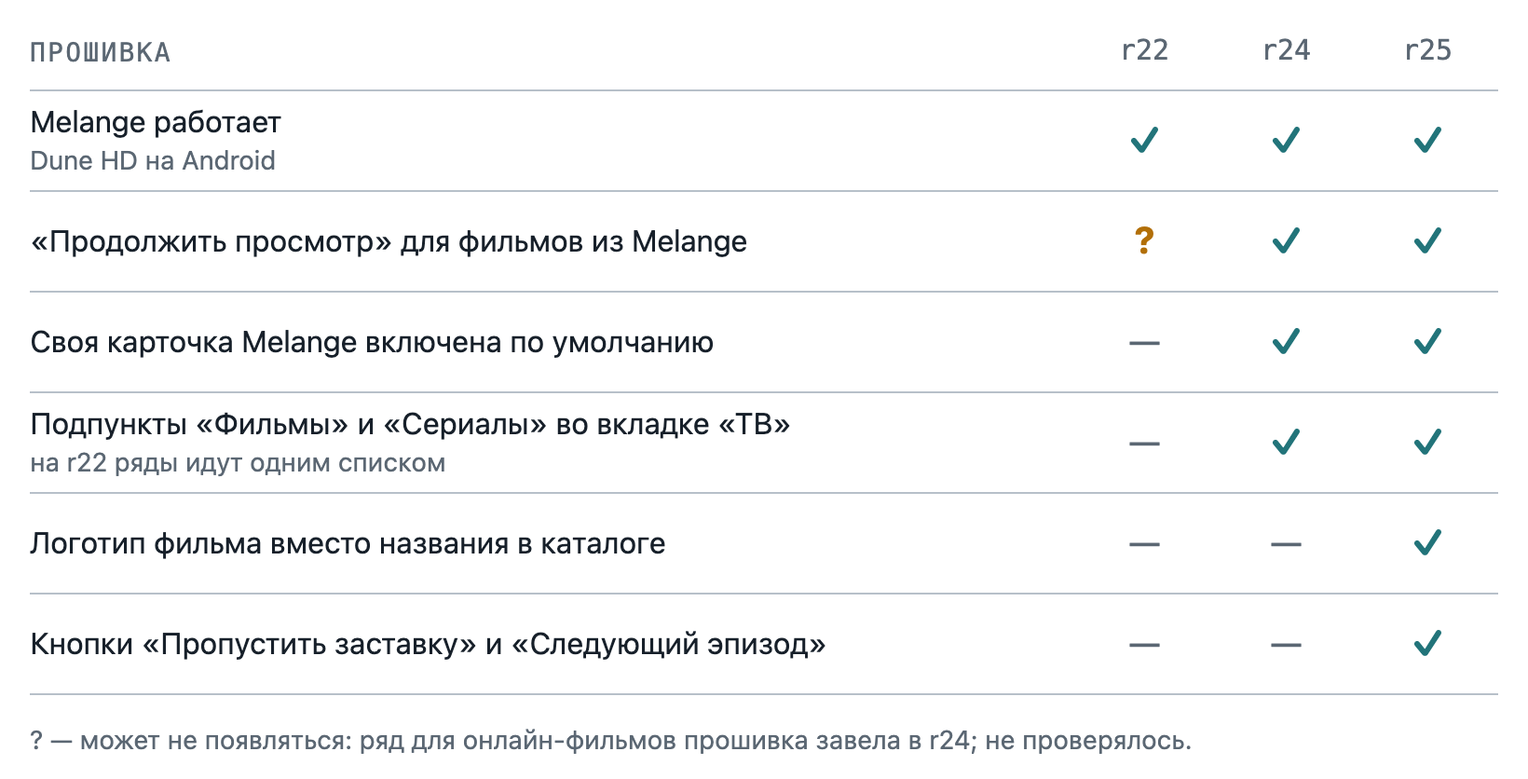
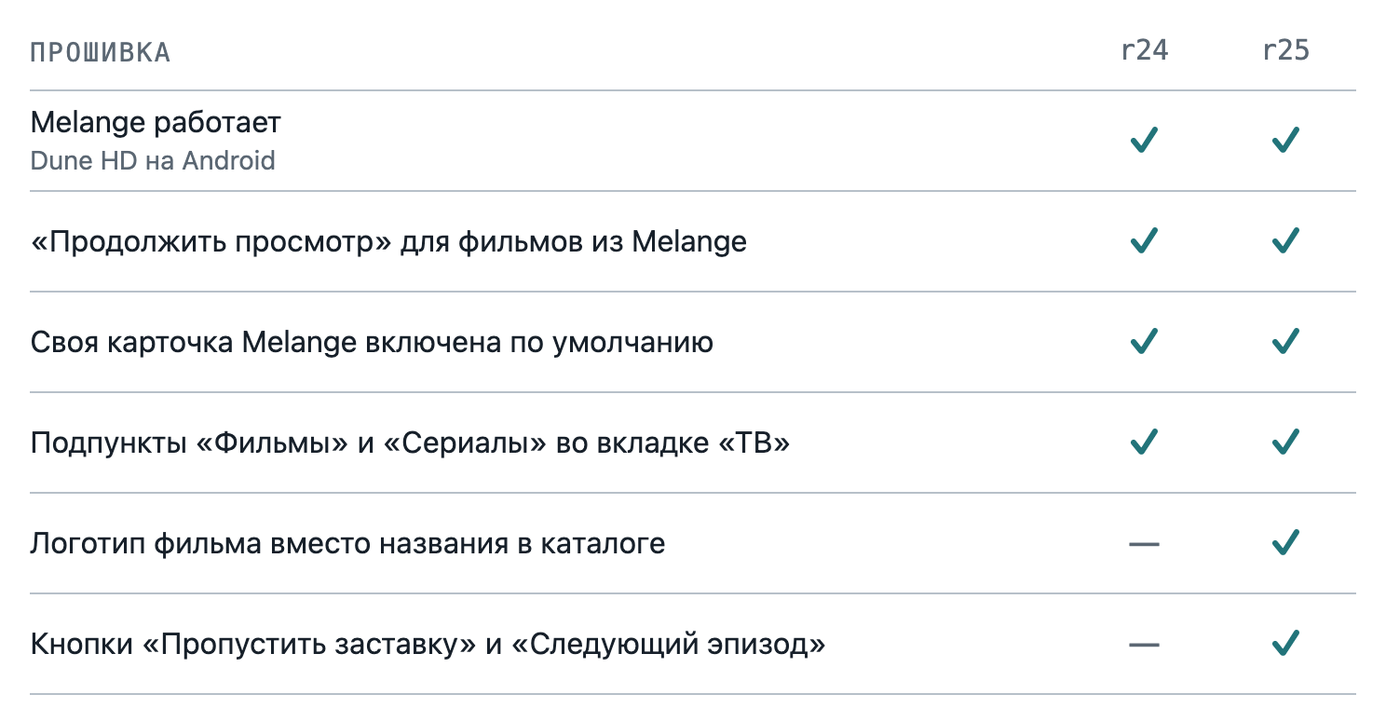
Гайд v2: ошибки и тупики по ревью новичка, POP UP вместо MENU, только r24 и r25
Порядок «Просмотр» перед рядами и единая цепочка «Дальше», первый запуск
одинаково, панель рядов по RETURN, переключатель сервиса Debrid, загрузка
копии на новой Дюне, ссылки, пометки (r25), термины TorrServe и AIOStreams.
Схема прошивок без r22.

diff --git a/docs/troubleshooting.md b/docs/troubleshooting.md
@@ -27,7 +27,7 @@
 | «Нет конфига AIOStreams: Настройки → Приложения → Melange» | то же: откройте настройки по этому пути |
 | «Сервер Melange не отвечает — проверьте интернет на Дюне» | проверьте интернет и повторите |
 | «Сервер Melange занят — повторите через минуту» | повторите через минуту |
-| «Сервер Melange не создал конфиг» | повторите через минуту; не вышло — настройте с телефона ([Быстрый старт](start.md)) |
+| «Сервер Melange не создал конфиг» | повторите через минуту; не вышло — настройте с телефона ([Страница настроек с телефона](phone-page.md)) |
 | «Конфиг создан, но не записан на Дюне», «Файл настроек Melange не читается — настройте с телефона» | настройте с телефона; повторится — пришлите [лог](#лог) |
 | «TorrServer не отвечает. Каталог и поиск работают, а для просмотра установите и запустите на Дюне приложение TorrServe» | Melange настроен, но торренты не включатся, пока не запущен TorrServe ([Торренты и TorrServer](torrserver.md)) |
 | «Не найден IP-адрес Дюны в сети» | Дюна не в сети: проверьте подключение к роутеру |
@@ -37,7 +37,7 @@
 - **Закладка перестала открываться.** Скорее всего, у Дюны в домашней сети сменился адрес. Откройте на Дюне настройки Melange, снова отсканируйте QR («Настроить с телефона») и обновите закладку.
 - **Не открывается совсем.** Телефон должен быть в той же домашней сети, что и Дюна: через мобильный интернет страница не откроется.
 - **После «Сменить ссылку»** старые закладки не работают: отсканируйте новый QR.
-- **После «Загрузить из файла»** страница открывается по ссылке из файла копии — обновите закладку ([Резервная копия](backup.md)).
+- **После «Загрузить из файла»** страница открывается по ссылке из файла: на той же Дюне старая закладка снова работает, на другой — добавьте закладку заново ([Резервная копия](backup.md)).
 
 ## Ошибки при сохранении настроек
 
@@ -82,7 +82,7 @@
 - **Раздач мало.** В «Где искать раздачи» выберите **«Везде»**: «Только русские трекеры» даёт меньше раздач, особенно с одним Real-Debrid.
 - **На странице «jacred.stream не пускает выбранный сервер AIOStreams — выберите другой JacRed».** Выберите другой JacRed.
 - **Мало раздач сериалов на сервере с пометкой «без TMDB».** Задайте свой ключ TMDB ([AIOStreams и свой конфиг](aiostreams.md)).
-- **Почему источники не прислали раздачи**, покажет настройка «Ошибки источников»: включите её ([Дополнительно](advanced-options.md)), затем в списке раздач MENU → «Ошибки источников».
+- **Почему источники не прислали раздачи**, покажет настройка «Ошибки источников»: включите её ([Дополнительно](advanced-options.md)), затем в списке раздач POP UP → «Ошибки источников».
 
 ## Не открывается через TorrServer
 
@@ -143,7 +143,7 @@
 | «Метки сохраняются с Transmission 4.0 — этот сервер их пропустит» | на Transmission старше 4.0 теги не сохранятся, остальное работает |
 | «Ответ не похож на qBittorrent», «Ответ не похож на Transmission (HTTP …) — проверьте адрес», «Вход: ответ HTTP … — это не qBittorrent?» | неверный адрес или выбран не тот клиент |
 
-Сообщения на Дюне после MENU → «Скачать на сервер…»:
+Сообщения на Дюне после POP UP → «Скачать на сервер…»:
 
 - «Нет связи с сервером» — проверьте, что сервер включён.
 - «Клиент не принял раздачу (может быть, она там уже есть)» — посмотрите в клиенте.
@@ -155,7 +155,7 @@
 
 | Сообщение или симптом | Что сделать |
 |---|---|
-| У профиля пометка «конфига нет», его нет в MENU на Дюне | конфиг профиля на сервере не создан (например, сервер не ответил). Откройте профиль на странице и нажмите «Сохранить» |
+| У профиля пометка «конфига нет», его нет в меню POP UP на Дюне | конфиг профиля на сервере не создан (например, сервер не ответил). Откройте профиль на странице и нажмите «Сохранить» |
 | «Конфига профиля ещё нет: нажмите «Сохранить»» | то же |
 | «Такие настройки уже в профиле «…»» | двух одинаковых профилей не бывает: поменяйте хотя бы одну настройку |
 | «Профиль «…» уже есть, выберите другое название» | смените название |
@@ -190,3 +190,5 @@
 
 - Вопросы и обсуждение — Telegram-канал https://t.me/arrakis_vibecode
 - Ошибка — Issue на GitHub: https://github.com/a1d4r/dune-hd-melange/issues. Опишите, что делали и что пошло не так, и приложите лог.
+
+Дальше: [Известные ограничения](limitations.md) · [Оглавление](README.md)

diff --git a/docs/debrid.md b/docs/debrid.md
@@ -4,7 +4,7 @@
 
 Нужно заранее: подписка Real-Debrid или TorBox и телефон в той же сети, что и Дюна.
 
-1. В каталоге Melange откройте настройки плагина (шестерёнка на полосе сверху) и выберите «Настроить с телефона». Отсканируйте QR-код телефоном. При первом запуске Melange этот экран открывается сам. О странице подробнее в главе [Страница настроек с телефона](phone-page.md).
+1. В каталоге Melange откройте настройки плагина (шестерёнка на полосе сверху) и выберите «Настроить с телефона». Отсканируйте QR-код телефоном. При первом запуске Melange нажмите «Настроить с телефона» на экране настроек (не «Быстрая настройка: торренты»). О странице подробнее в главе [Страница настроек с телефона](phone-page.md).
 
    <img src="../screenshots/setup-qr.jpg" alt="Окно «Настроить с телефона» с QR-кодом" width="100%">
 
@@ -18,7 +18,7 @@
 
    <img src="../screenshots/debrid-site-torbox.jpg" alt="TorBox: блок «API Key» с кнопкой «Copy API Key»" width="100%">
 
-4. Вставьте ключ в поле и нажмите «Проверить». Должна появиться зелёная строка «ключ верный, премиум».
+4. Вверху выберите свой сервис, Real-Debrid или TorBox, вставьте ключ в поле и нажмите «Проверить». Должна появиться зелёная строка «ключ верный, премиум».
 
    <img src="../screenshots/debrid-key.jpg" alt="Поле «Ключ Real-Debrid», под ним зелёная строка «Real-Debrid: ключ верный, премиум до 01.03.2027»" width="300">
 
@@ -38,7 +38,7 @@
 
    <img src="../screenshots/film-list.jpg" alt="Список раздач «Дюна: Часть вторая»: у раздач значок молнии, слева «В кэше Real-Debrid»" width="100%">
 
-8. Раздачу без молнии можно включить через TorrServer: встаньте на неё, нажмите **MENU** и выберите «Смотреть через TorrServer». Для этого нужен TorrServe на Дюне ([Быстрый старт](start.md)).
+8. Раздачу без молнии можно включить через TorrServer: встаньте на неё, нажмите **POP UP** и выберите «Смотреть через TorrServer». Для этого нужен TorrServe на Дюне: как поставить — [Быстрый старт](start.md#через-dune-backup), шаг 5; как настроить — [Первая настройка](start.md#первая-настройка), шаг 1.
 
    <img src="../screenshots/debrid-menu-torrserver.jpg" alt="Список раздач «Дюна: Часть вторая», открыто меню, фокус на «Смотреть через TorrServer»" width="100%">
 
@@ -48,4 +48,4 @@
 - «ключ верный, но премиума нет» — продлите подписку на сайте сервиса.
 - Раздача не включается или пишет «Нужно скачать» — см. [Известные ограничения](limitations.md) и [Решение проблем](troubleshooting.md).
 
-Дальше: [Просмотр](watch.md) · [Оглавление](README.md)
+Дальше: [Торренты и TorrServer](torrserver.md) · [Оглавление](README.md)

diff --git a/docs/start.md b/docs/start.md
@@ -2,11 +2,11 @@
 
 Melange — каталог фильмов и сериалов для Dune HD. Выберите фильм — Melange найдёт его в торрентах и сразу включит в плеере Дюны, без скачивания. [← Оглавление](README.md)
 
-Поставим Melange и TorrServe (через него Дюна играет торренты) и откроем каталог.
+Поставим Melange и TorrServe (через него Дюна играет торренты) и откроем каталог. TorrServe — приложение, внутри него работает TorrServer: в сообщениях Melange встречаются оба названия.
 
 <img src="../screenshots/overview.png" alt="Схема: выбрали фильм в каталоге Melange, Melange ищет раздачи в торрентах, выбрали раздачу, фильм идёт в плеере Дюны через TorrServe или Debrid" width="100%">
 
-Нужно заранее: Dune HD на Android с прошивкой r22 или новее. Рекомендуется r25 (если доступна) или r24.
+Нужно заранее: Dune HD на Android с прошивкой r24 или r25. Рекомендуется r25 (если доступна). Чего нет на r24 — [Известные ограничения](limitations.md#устройства-и-прошивки).
 
 Если у вас есть подписка Real-Debrid или TorBox, после установки Melange переходите к главе [Debrid](debrid.md): TorrServe тогда не обязателен.
 
@@ -68,6 +68,8 @@ Melange — каталог фильмов и сериалов для Dune HD. В
 
    <img src="../screenshots/setup-dune.jpg" alt="Экран настроек Melange, фокус на «Быстрая настройка: торренты»" width="100%">
 
+   «AIOStreams — конфиг Melange: не задан» — так и должно быть. AIOStreams — сервер, который ищет раздачи, а конфиг — ваши настройки на нём. Melange создаст его сам.
+
 4. Откроется каталог Melange: можно выбирать фильм.
 
    <img src="../screenshots/catalog.jpg" alt="Каталог Melange: сверху вкладки «Фильмы» и «Сериалы», лупа и шестерёнка, ниже ряды подборок" width="100%">
@@ -76,6 +78,6 @@ Melange — каталог фильмов и сериалов для Dune HD. В
 
 Новые версии Melange Дюна предложит сама.
 
-Дальше: [Свои ряды каталога](catalog-rows.md) · [Оглавление](README.md)
+Дальше: [Просмотр](watch.md) · [Оглавление](README.md)
 
 Вопросы и обсуждение — в Telegram-канале https://t.me/arrakis_vibecode, ошибки — в Issues: https://github.com/a1d4r/dune-hd-melange/issues

diff --git a/docs/advanced-options.md b/docs/advanced-options.md
@@ -8,11 +8,11 @@
 
 2. «Запуск торрентов»: оставьте «Разрешить». «Без торрентов» нужен в основном там, где за торренты могут оштрафовать (например, в ряде стран Европы), или если вы не хотите случайно запустить торрент на Дюне. Раздачи P2P (из торрентов) скроются, TorrServer и скачивание отключатся. Раздачи Debrid останутся, потому что их качает сам сервис. С источником «Торренты» этого пункта нет.
 
-3. «Пропуск заставки и титров»: оставьте «Включён» (по умолчанию). В плеере появится кнопка «Пропустить заставку». Если серии долго запускаются, выберите «Выключен»; «Только точные» оставит метки, сверенные с длиной файла, и кнопок станет меньше.
+3. «Пропуск заставки и титров» (r25): оставьте «Включён» (по умолчанию). В плеере появится кнопка «Пропустить заставку». Если серии долго запускаются, выберите «Выключен»; «Только точные» оставит метки, сверенные с длиной файла, и кнопок станет меньше.
 
    <img src="../screenshots/advanced-skip.jpg" alt="Плеер Дюны: внизу слева кнопка «Пропустить заставку»" width="100%">
 
-4. «Ошибки источников»: включите, если раздач мало или нет совсем. Над списком раздач появится число ошибок, причины покажет **MENU** → «Ошибки источников».
+4. «Ошибки источников»: включите, если раздач мало или нет совсем. Над списком раздач появится число ошибок, причины покажет **POP UP** → «Ошибки источников».
 
    <img src="../screenshots/advanced-errors-menu.jpg" alt="Список раздач «Обитель зла»: справа сверху «Ошибки: 2», открыто меню, фокус на «Ошибки источников»" width="100%">
 
@@ -26,4 +26,4 @@
 
 - Раздач всё равно мало — см. [Известные ограничения](limitations.md).
 
-Дальше: [Оглавление](README.md)
+Дальше: [Резервная копия](backup.md) · [Оглавление](README.md)

diff --git a/docs/limitations.md b/docs/limitations.md
@@ -17,9 +17,9 @@
 
 ## Устройства и прошивки
 
-<img src="../screenshots/limitations-firmware.png" alt="Матрица: что работает на прошивках r22, r24 и r25" width="100%">
+<img src="../screenshots/limitations-firmware.png" alt="Матрица: что работает на прошивках r24 и r25" width="100%">
 
-- Нужна Dune HD на Android с прошивкой r22 или новее.
+- Нужна Dune HD на Android с прошивкой r24 или r25.
 - **Не работает** на Дюнах на Sigma / Linux (Solo 4K, Duo 4K, Base 3D, TV-303D и старше): у них нет каталога «Фильмы» с пунктами «Смотреть…» и Android-приложений.
 - На моделях с 1 ГБ памяти (SmartBox 4K, SmartBox 4K Plus, Traveler, Neo 4K, 4K Neo, Neo 4K T2) работа не обещается.
 - Интерфейс плагина — на русском и английском, по языку Дюны.
@@ -73,7 +73,7 @@
 ## Профили источников
 
 - Профилей не больше 8, названия не повторяются, двух профилей с одинаковыми настройками не бывает.
-- Профиля, у которого на сервере ещё нет конфига (пометка «конфига нет»), нет в MENU на Дюне. Как исправить — [Решение проблем](troubleshooting.md#профили-источников).
+- Профиля, у которого на сервере ещё нет конфига (пометка «конфига нет»), нет в меню POP UP на Дюне. Как исправить — [Решение проблем](troubleshooting.md#профили-источников).
 - Если текущий источник не сохранён профилем, а профилей уже 8, переключиться с Дюны не выйдет, пока не удалите лишний.
 - После смены ключа Debrid откройте на странице каждый профиль, кроме своих конфигов, и нажмите «Сохранить»: так новый ключ попадёт в конфиг каждого профиля.
 - Страница, открытая на телефоне, не видит переключений на Дюне: после них обновите её.
@@ -95,3 +95,5 @@
 
 - Удаление Melange стирает его настройки. Перед удалением сохраните [резервную копию](backup.md).
 - Карточки Дюны, которые Melange создал для фильмов, остаются.
+
+Дальше: [Оглавление](README.md)

diff --git a/docs/backup.md b/docs/backup.md
@@ -10,9 +10,9 @@
 
 2. Нажмите «Сохранить в файл». Телефон скачает файл `melange-settings-….json`. В нём то, что вы вводили в Melange: ключи Debrid и своего JacRed, пароли TorrServer и сервера закачки. Не выкладывайте его в открытый доступ.
 
-3. На новой Дюне или после переустановки откройте тот же экран и нажмите «Загрузить из файла», выберите сохранённый файл. Он заменит все настройки Melange. Конфиги AIOStreams на серверах файл не меняет.
+3. На новой Дюне или после переустановки поставьте Melange, на экране настроек нажмите «Настроить с телефона» и отсканируйте QR-код. На странице откройте «Резервная копия», нажмите «Загрузить из файла» и выберите сохранённый файл. Он заменит все настройки Melange. Конфиги AIOStreams на серверах файл не меняет.
 
-4. Страница откроется заново со строкой «Настройки загружены из файла. Дюна подхватит их сама.» Вернётся и ссылка на страницу из файла, так что старая закладка снова откроется.
+4. Страница откроется заново со строкой «Настройки загружены из файла. Дюна подхватит их сама.» Вернётся и ссылка на страницу из файла: на той же Дюне старая закладка снова работает, на другой — добавьте закладку заново.
 
    <img src="../screenshots/backup-loaded.jpg" alt="Вверху страницы зелёная строка «Настройки загружены из файла. Дюна подхватит их сама.»" width="300">
 
@@ -22,4 +22,4 @@
 - «Файл от более новой версии Melange — обновите плагин» — обновите Melange и загрузите файл снова.
 - Другие сообщения — [Решение проблем](troubleshooting.md).
 
-Дальше: [Оглавление](README.md)
+Дальше: [AIOStreams и свой конфиг](aiostreams.md) · [Оглавление](README.md)

diff --git a/docs/download-server.md b/docs/download-server.md
@@ -12,9 +12,9 @@
 
    <img src="../screenshots/phone-saved.jpg" alt="Вверху страницы зелёная строка «Сохранено. Дюна подхватит настройки сама.»" width="300">
 
-3. На Дюне в списке раздач встаньте на раздачу и нажмите **MENU** → «Скачать на сервер…».
+3. На Дюне в списке раздач встаньте на раздачу и нажмите **POP UP** → «Скачать на сервер…».
 
-   <img src="../screenshots/download-server-menu.jpg" alt="Список раздач «Дюна: Часть вторая», открыто MENU, фокус на «Скачать на сервер…»" width="100%">
+   <img src="../screenshots/download-server-menu.jpg" alt="Список раздач «Дюна: Часть вторая», открыто меню POP UP, фокус на «Скачать на сервер…»" width="100%">
 
 4. Выберите сервер. Появится «Добавлено в <название>».
 
@@ -29,6 +29,6 @@
 ## Если не получилось
 
 - «Проверить» пишет красным — см. [Решение проблем](troubleshooting.md).
-- В MENU нет «Скачать на сервер…» — пункт есть только у торрент-раздач и не появляется с «Без торрентов» ([Дополнительно](advanced-options.md)).
+- В меню POP UP нет «Скачать на сервер…» — пункт есть не у всех раздач: только где источник прислал торрент; с «Без торрентов» его нет ([Дополнительно](advanced-options.md)).
 
-Дальше: [Дополнительно](advanced-options.md) · [Оглавление](README.md)
+Дальше: [Внешний вид](appearance.md) · [Оглавление](README.md)

diff --git a/docs/aiostreams.md b/docs/aiostreams.md
@@ -61,7 +61,7 @@ Melange обращается к конфигу по ссылке на его `ma
 
 Когда нужно: сервер Melange не отвечает или у вас свой AIOStreams, например на NAS. Сервер выбирается для Debrid и «Торрентов»; при своём конфиге он задан ссылкой.
 
-По умолчанию выбран `aiostreams.kompotik.com` (пометка «у Melange»). Он же отдаёт время заставки и титров для кнопок «Пропустить заставку» и «Следующий эпизод» ([Просмотр](watch.md)); на других серверах их может не быть.
+По умолчанию выбран `aiostreams.kompotik.com` (пометка «у Melange»). Он же отдаёт время заставки и титров для кнопок «Пропустить заставку» и «Следующий эпизод» ([Дополнительно](advanced-options.md)); на других серверах их может не быть.
 
 1. На странице настроек откройте «AIOStreams» и выберите сервер.
 
@@ -134,4 +134,4 @@ Melange обращается к конфигу по ссылке на его `ma
 - Сохранение пишет ошибку про ссылку, адрес или лимит сервера — см. [Решение проблем](troubleshooting.md).
 - Раздач мало — выберите «Везде» в «Где искать раздачи» или проверьте, отвечает ли JacRed ([JacRed](jacred.md)); остальное — в [Известных ограничениях](limitations.md).
 
-Дальше: [Оглавление](README.md)
+Дальше: [Решение проблем](troubleshooting.md) · [Оглавление](README.md)

diff --git a/docs/profiles.md b/docs/profiles.md
@@ -14,7 +14,7 @@
 
    <img src="../screenshots/profiles-new.jpg" alt="Новый профиль: название «Торренты», выбран источник «Торренты»" width="300">
 
-4. На Дюне откройте фильм, в списке раздач нажмите **MENU** → «Откуда брать…» и выберите профиль. Если других готовых профилей один, пункт сразу называется «Откуда брать → <название>». Список раздач обновится из нового источника.
+4. На Дюне откройте фильм, в списке раздач нажмите **POP UP** → «Откуда брать…» и выберите профиль. Если других готовых профилей один, пункт сразу называется «Откуда брать → <название>». Список раздач обновится из нового источника.
 
    <img src="../screenshots/profiles-menu.jpg" alt="Список раздач «Дюна: Часть вторая», открыто меню, фокус на «Откуда брать…»" width="100%">
 
@@ -22,7 +22,7 @@
 
 ## Если не получилось
 
-- Профиля нет в MENU или у него пометка «конфига нет» — см. [Решение проблем](troubleshooting.md).
+- Профиля нет в меню POP UP или у него пометка «конфига нет» — см. [Решение проблем](troubleshooting.md).
 - Лимит профилей и другие оговорки — [Известные ограничения](limitations.md).
 
 Дальше: [Свой торрент-клиент](download-server.md) · [Оглавление](README.md)

diff --git a/docs/catalog-rows.md b/docs/catalog-rows.md
@@ -4,9 +4,9 @@
 
 ## На Дюне
 
-1. В каталоге встаньте на название ряда в панели слева, нажмите **MENU** и выберите «Настроить список...».
+1. В каталоге нажмите **RETURN**: фокус перейдёт на название ряда в панели слева. Нажмите **POP UP** и выберите «Настроить список...».
 
-   <img src="../screenshots/rows-menu.jpg" alt="Каталог, панель рядов слева, меню MENU: фокус на «Настроить список...»" width="100%">
+   <img src="../screenshots/rows-menu.jpg" alt="Каталог, панель рядов слева, меню POP UP: фокус на «Настроить список...»" width="100%">
 
 2. Выберите группу, например «Жанры».
 
@@ -50,4 +50,4 @@
 - «Прошивка Дюны не поддерживает этот диалог» — настройте ряды с телефона.
 - Названия рядов слева не выбираются — в настройках Дюны выключена «Навигационная панель слева». Включите её или настройте ряды с телефона.
 
-Дальше: [Просмотр](watch.md) · [Оглавление](README.md)
+Дальше: [Страница настроек с телефона](phone-page.md) · [Оглавление](README.md)

diff --git a/docs/torrserver.md b/docs/torrserver.md
@@ -4,7 +4,7 @@
 
 Нужно заранее: приложение TorrServe на Дюне ([Быстрый старт](start.md)).
 
-1. Без телефона: откройте настройки плагина (шестерёнка на полосе сверху) и выберите «Быстрая настройка: торренты». Пункт есть, пока Melange ещё не настроен. Экран обновится, и в строке «AIOStreams — конфиг Melange» вместо «не задан» появится адрес. Если этого хватило, переходите к шагу 5.
+1. Без телефона: откройте настройки плагина (шестерёнка на полосе сверху) и выберите «Быстрая настройка: торренты». Пункт есть, пока Melange ещё не настроен. Откроется каталог Melange: торренты настроены. Если этого хватило, переходите к шагу 5.
 
    <img src="../screenshots/setup-dune.jpg" alt="Экран настроек Melange на Дюне, фокус на «Быстрая настройка: торренты»" width="100%">
 
